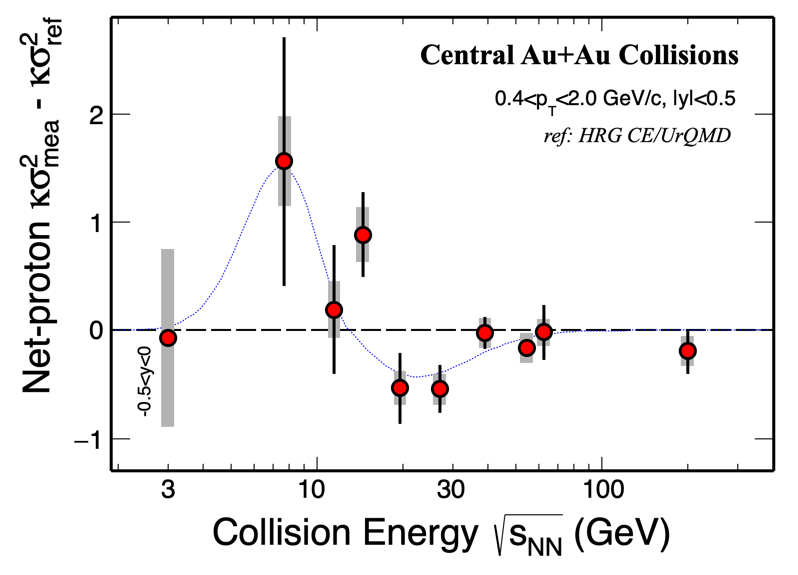
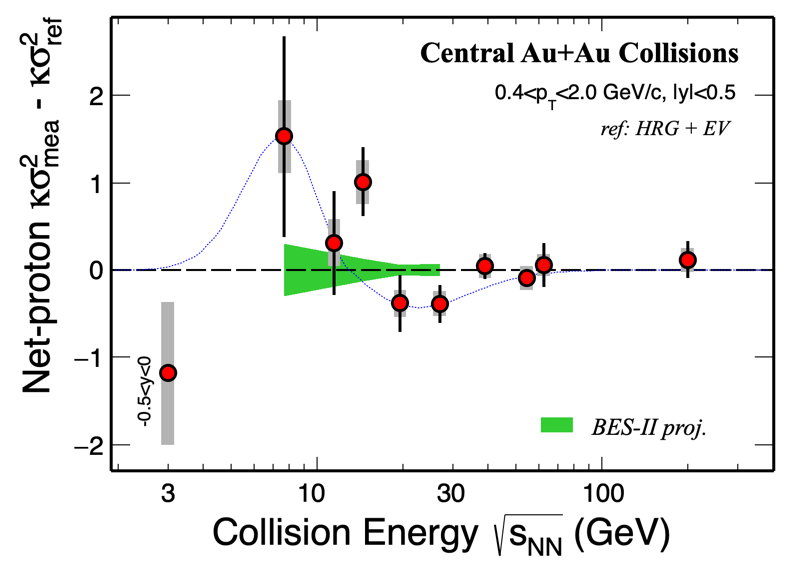
reference recalculated using VV's HRG+EV (2107.00163, 3 GeV private)

diff --git a/Kurtosis/kappasigma2.C b/Kurtosis/kappasigma2.C
@@ -32,11 +32,17 @@ void kappasigma2(){
   Double_t C4C2_se[NE] = {0.822, 0.414, .267, 0.254, 0.156, 0.143, 0.136, 0.139, 0.122, 0.139};
   Double_t C4C2_e_tot[NE];
 
+  // from BES-I PRC long paper
+  /*
   const Int_t NE_ref = 5;
   const Double_t E_ref[NE_ref] = {3.0, 8.8, 17.27, 27.0, 62.4};  // 3.0 - UrQMD, others - HRG - CE
   const Double_t C4C2_ref[NE_ref] = {-0.774, 0.43147, 0.65726, 0.73934, 0.81176};
   TGraph *gr_ref = new TGraph(NE_ref, E_ref, C4C2_ref);
+  */
+  // from VV, BC+EV: 2107.00163
+  TGraph *gr_ref = new TGraph("ksigma2_BCEV.txt","%lg %lg");
 
+    
   for(int i=0;i<NE;i++) {
     C4C2[i] -= gr_ref->Eval(E[i]);
     C4C2_e_tot[i] = sqrt(C4C2_e[i]*C4C2_e[i]+C4C2_se[i]*C4C2_se[i]);
@@ -78,7 +84,7 @@ void kappasigma2(){
 
   double x1 = 1.9;
   double x2 = 4e2;
-  double y1 = -1.3;
+  double y1 = -2.3;
   double y2 = 2.9;
   TH1D *h0 = new TH1D("h0","",1,x1,x2);
   h0->GetXaxis()->CenterTitle();
@@ -96,7 +102,7 @@ void kappasigma2(){
   gr_p->SetFillColor(kGreen-3);
   gr_p->SetLineColor(kGreen-3);
   gr_p->SetLineWidth(15);
-  //  gr_p->Draw("e3");
+  gr_p->Draw("e3");
   drawLine(x1,0,x2,0,2,9,1);
 
   TF1 *fun = new TF1("fun",xgx,x1,x2,5);
@@ -119,21 +125,22 @@ void kappasigma2(){
   
   
   drawHistBox(x1,x2,y1,y2);
-  drawText(2.85, y1-0.25, "3");
-  drawText(8.5, y1-0.25, "10");
-  drawText(26.5, y1-0.25, "30");
-  drawText(85, y1-0.25, "100");
-  drawText(2.6, -0.8, "-0.5<y<0",42,0.035,90);
+  drawText(2.85, y1-0.35, "3");
+  drawText(8.5, y1-0.35, "10");
+  drawText(26.5, y1-0.35, "30");
+  drawText(85, y1-0.35, "100");
+  drawText(2.6, -1.8, "-0.5<y<0",42,0.035,90);
 
-  drawText(23, y2*0.85, "Central Au+Au Collisions",22,0.055);
-  drawText(42, y2*0.72, "0.4<p_{T}<2.0 GeV/c, |y|<0.5",42,0.04);
-  drawText(60, y2*0.6, " ref: HRG CE/UrQMD",12,0.04);
-  TLegend *leg = new TLegend(0.67, 0.66, 0.9, 0.74);
+  drawText(23, y1+(y2-y1)*0.9, "Central Au+Au Collisions",22,0.055);
+  drawText(42, y1+(y2-y1)*0.82, "0.4<p_{T}<2.0 GeV/c, |y|<0.5",42,0.04);
+  drawText(95, y1+(y2-y1)*0.74, " ref: HRG + EV",12,0.04);
+  TLegend *leg = new TLegend(0.67, 0.22, 0.9, 0.3);
   leg->SetLineColor(10);
   leg->SetTextSize(0.04);
   leg->SetTextFont(12);
+  leg->SetTextSize(0.045);
   leg->AddEntry(gr_p,"  BES-II proj.","l");
-  //  leg->Draw();
+  leg->Draw();
   
   c1->Update();
   c1->SaveAs("kappasigma2VsE.pdf");
@@ -178,14 +185,15 @@ void kappasigma2(){
   
   
   drawHistBox(x1,x2,y1,y2);
-  drawText(740, -0.8, "-0.5<y<0",42,0.035,90);
+  drawText(740, -1.8, "-0.5<y<0",42,0.035,90);
 
-  drawText(0, y2*0.85, "Central Au+Au Collisions",22,0.055);
-  drawText(0, y2*0.72, "0.4<p_{T}<2.0 GeV/c, |y|<0.5",42,0.04);
-  drawText(0, y2*0.6, " ref: HRG CE/UrQMD",12,0.04);
-  leg = new TLegend(0.18, 0.66, 0.4, 0.74);
+  drawText(-10, y1+(y2-y1)*0.9, "Central Au+Au Collisions",22,0.05);
+  drawText(-10, y1+(y2-y1)*0.82, "0.4<p_{T}<2.0 GeV/c, |y|<0.5",42,0.04);
+  drawText(-10, y1+(y2-y1)*0.74, " ref: HRG + EV",12,0.04);
+
+  leg = new TLegend(0.18, 0.22, 0.4, 0.3);
   leg->SetLineColor(10);
-  leg->SetTextSize(0.04);
+  leg->SetTextSize(0.045);
   leg->SetTextFont(12);
   leg->AddEntry(gr_p_muB,"  BES-II proj.","l");
   leg->Draw();
